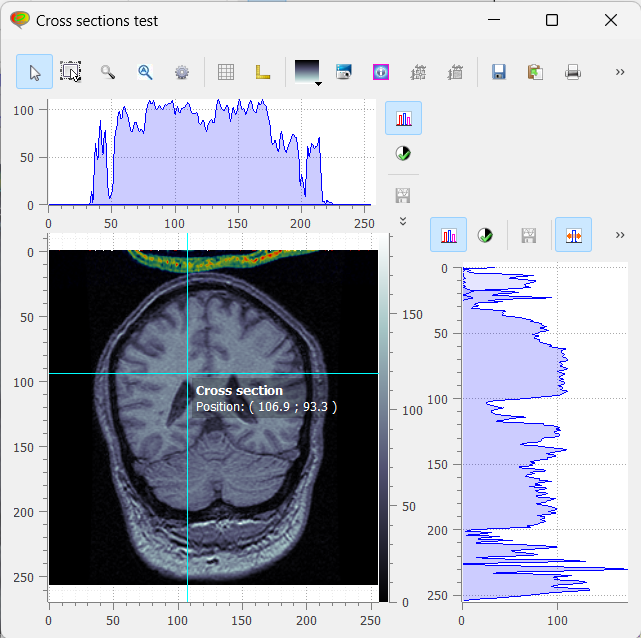
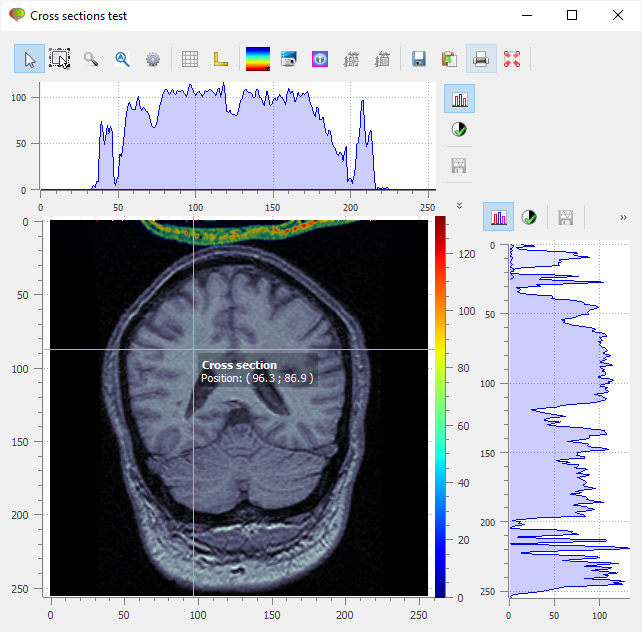
Doc: updated screenshots

diff --git a/plotpy/tests/items/test_svgshapes.py b/plotpy/tests/items/test_svgshapes.py
@@ -16,16 +16,16 @@ from plotpy.tests import get_path
 from plotpy.tests import vistools as ptv
 
 
-def test_image():
-    """Testing ImageItem object"""
+def test_svg():
+    """Test showing SVG shapes"""
     with qt_app_context(exec_loop=True):
         path1, path2 = get_path("svg_tool.svg"), get_path("svg_target.svg")
         csvg = make.svg("circle", path2, 0, 0, 100, 100, "Circle")
         rsvg = make.svg("rectangle", path1, 150, 0, 200, 100, "Rect")
         ssvg = make.svg("square", path1, 0, 150, 100, 250, "Square")
         items = [csvg, rsvg, ssvg]
-        _win = ptv.show_items(items, wintitle="SVG shapes", lock_aspect_ratio=True)
+        _win = ptv.show_items(items, wintitle=test_svg.__doc__, lock_aspect_ratio=True)
 
 
 if __name__ == "__main__":
-    test_image()
+    test_svg()

diff --git a/plotpy/tests/features/test_imagesuperp.py b/plotpy/tests/features/test_imagesuperp.py
@@ -36,8 +36,9 @@ def test_imagesuperp():
     with qt_app_context(exec_loop=True):
         win = create_window()
         image1 = make.image(filename=filename, title="Original", colormap="gray")
-        data2 = np.array(image1.data.T[200:], copy=True)
-        image2 = make.image(data2, title="Modified")
+        data2 = np.array(image1.data[:, :150], copy=True)
+        data2[:100] = data2[-100:] = 0
+        image2 = make.image(data2, title="Modified", alpha_function="tanh")
         plot = win.manager.get_plot()
         plot.add_item(image1, z=0)
         plot.add_item(image2, z=1)

diff --git a/plotpy/tests/items/test_image_contour.py b/plotpy/tests/items/test_image_contour.py
@@ -15,6 +15,7 @@ from plotpy.tests import vistools as ptv
 
 
 def test_contour():
+    """Contour plotting test"""
     with qt_app_context(exec_loop=True):
         # compute the image
         delta = 0.025
@@ -27,7 +28,7 @@ def test_contour():
         # show the image
         _win = ptv.show_items(
             [make.image(Z)] + make.contours(Z, np.arange(-2, 2, 0.5)),
-            wintitle="Sample contour plotting",
+            wintitle=test_contour.__doc__,
             curve_antialiasing=False,
             lock_aspect_ratio=True,
         )

diff --git a/plotpy/tests/items/test_image_rgb.py b/plotpy/tests/items/test_image_rgb.py
@@ -16,12 +16,11 @@ from plotpy.tests import vistools as ptv
 
 def test_image_rgb():
     """Testing RGB image item"""
-    title = test_image_rgb.__doc__
     with qt_app_context(exec_loop=True):
         item = make.rgbimage(
             filename=get_image_file_path("image.png"), xdata=[-1, 1], ydata=[-1, 1]
         )
-        _win = ptv.show_items([item], plot_type="image", wintitle=title)
+        _wn = ptv.show_items([item], plot_type="image", wintitle=test_image_rgb.__doc__)
 
 
 if __name__ == "__main__":

diff --git a/plotpy/tests/items/test_curves.py b/plotpy/tests/items/test_curves.py
@@ -15,7 +15,7 @@ from plotpy.tests import vistools as ptv
 
 
 def test_plot():
-    """Test plot"""
+    """Curve plotting test"""
     x = np.linspace(-10, 10, 200)
     dy = x / 100.0
     y = np.sin(np.sin(np.sin(x)))
@@ -40,7 +40,7 @@ def test_plot():
                 movable=False,
             ),
         ]
-        _win = ptv.show_items(items, wintitle="Curve plotting test", title="Curves")
+        _win = ptv.show_items(items, wintitle=test_plot.__doc__, title="Curves")
 
 
 if __name__ == "__main__":

diff --git a/plotpy/tests/features/test_plot_log.py b/plotpy/tests/features/test_plot_log.py
@@ -21,7 +21,7 @@ def test_plot_log():
         y = np.exp(-x)
         y[0] = 0
         items = [make.curve(x, y, color="b"), make.error(x, y, None, y * 0.23)]
-        win = ptv.show_items(items, plot_type="curve")
+        win = ptv.show_items(items, plot_type="curve", wintitle=test_plot_log.__doc__)
         plot = win.manager.get_plot()
         plot.set_axis_scale("left", "log")
         plot.set_axis_scale("bottom", "log")

diff --git a/plotpy/tests/features/test_no_auto_tools.py b/plotpy/tests/features/test_no_auto_tools.py
@@ -19,7 +19,11 @@ def test_no_auto_tools():
     x = linspace(-10, 10, 200)
     y = sin(sin(sin(x)))
     with qt_app_context(exec_loop=True):
-        _win = ptv.show_items([make.curve(x, y, color="b")], auto_tools=False)
+        _win = ptv.show_items(
+            [make.curve(x, y, color="b")],
+            auto_tools=False,
+            wintitle=test_no_auto_tools.__doc__,
+        )
 
 
 if __name__ == "__main__":

diff --git a/plotpy/tests/features/test_cursors.py b/plotpy/tests/features/test_cursors.py
@@ -26,7 +26,9 @@ def test_cursor():
         xcursor = make.xcursor(-4, 2.5, label="x = %.2f<br>y = %.2f")
         legend = make.legend("TR")
         _win = ptv.show_items(
-            [curve, hcursor, vcursor, vcursor2, xcursor, legend], plot_type="curve"
+            wintitle="Plot cursors",
+            items=[curve, hcursor, vcursor, vcursor2, xcursor, legend],
+            plot_type="curve",
         )
 
 

diff --git a/plotpy/tests/widgets/test_simple_window.py b/plotpy/tests/widgets/test_simple_window.py
@@ -132,7 +132,7 @@ class CentralWidget(QW.QSplitter):
             self.plot_widget.manager.set_contrast_range(*lut_range)
             self.plot_widget.manager.update_cross_sections()
         else:
-            self.item = make.image(data)
+            self.item = make.image(data, interpolation="nearest")
             plot.add_item(self.item, z=0)
         plot.replot()
 

diff --git a/plotpy/tests/features/test_computations.py b/plotpy/tests/features/test_computations.py
@@ -40,7 +40,9 @@ def test_computations():
         )
         legend = make.legend("TR")
         _win = ptv.show_items(
-            [curve, range, disp0, disp1, disp2, legend], plot_type="curve"
+            wintitle="Plot computations",
+            items=[curve, range, disp0, disp1, disp2, legend],
+            plot_type="curve",
         )
 
 

diff --git a/plotpy/tests/items/test_mandelbrot.py b/plotpy/tests/items/test_mandelbrot.py
@@ -54,7 +54,7 @@ class MandelItem(RawImageItem):
         NX = x2 - x1
         NY = y2 - y1
         if self.data.shape != (NX, NY):
-            self.data = np.zeros((NY, NX), np.uint8)
+            self.data = np.zeros((NY, NX), np.int16)
         mandelbrot(i1, j1, i2, j2, self.data, self.IMAX)
 
         srcRect = (0, 0, NX, NY)

diff --git a/plotpy/tests/features/test_manager.py b/plotpy/tests/features/test_manager.py
@@ -50,6 +50,7 @@ class Window(QW.QMainWindow):
     def __init__(self):
         super().__init__()
         win32_fix_title_bar_background(self)
+        self.setWindowTitle("PlotManager test")
 
         filename = get_path("brain.png")
         image1 = make.image(filename=filename, title="Original", colormap="gray")
